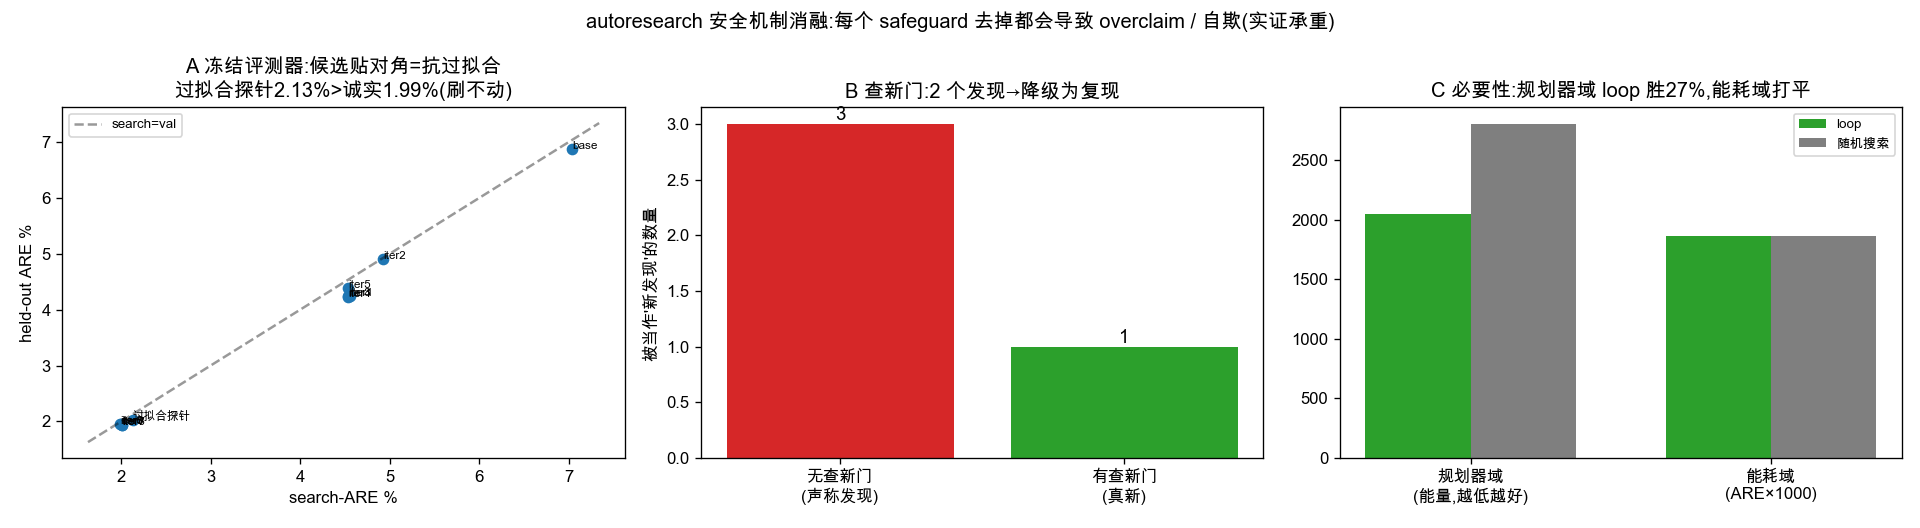
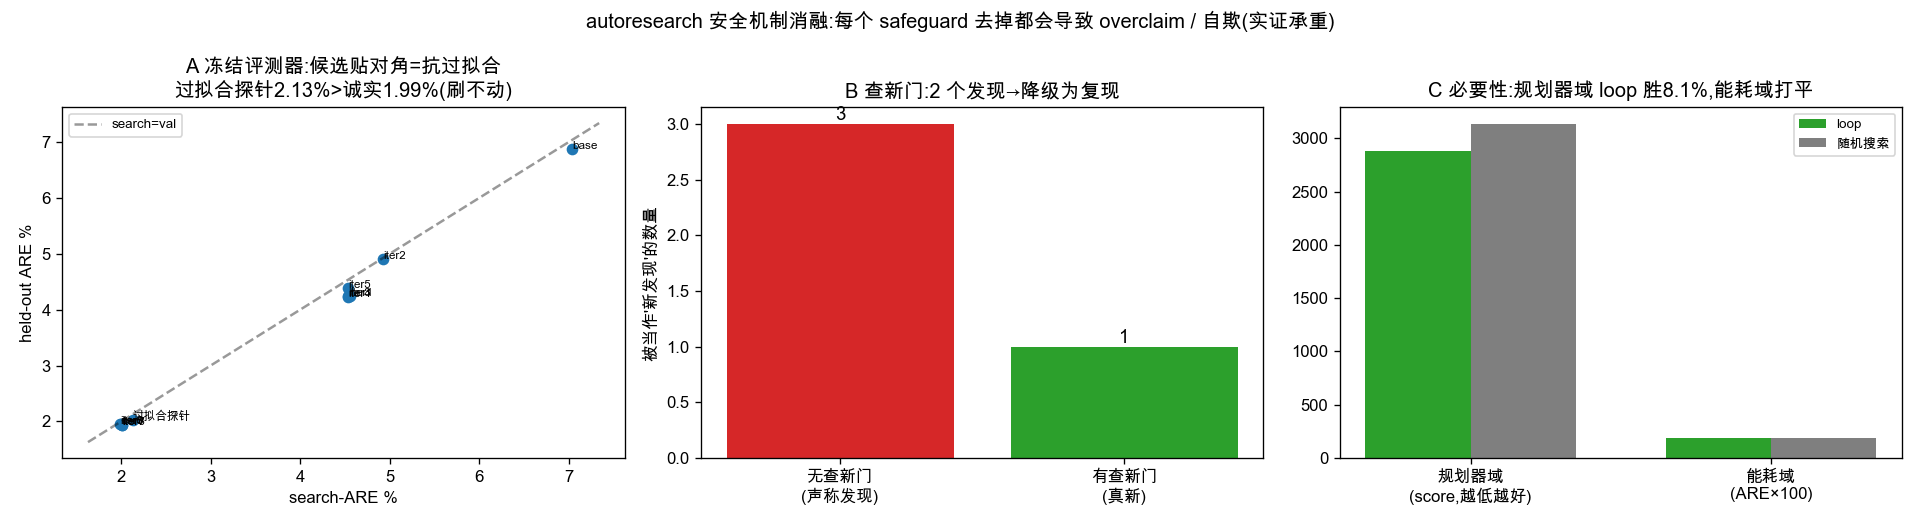
Safeguard ablation now reads fresh reproduced numbers (planner 2882/3135/z=-2.38/8.1%, energy 1.859/1.869/z=-0.35) instead of stale 2046/2805/27% — all three ablations (frozen ruler / novelty gate / necessity) now fully reproducible

diff --git a/autoresearch/energy_m100/safeguard_ablation.py b/autoresearch/energy_m100/safeguard_ablation.py
@@ -100,15 +100,26 @@ def ablation_B_novelty_gate():
 
 def ablation_C_necessity():
     print("\n=== 消融 C:loop 必要性(结构搜索 vs 随机,同框架跨域)===")
+    # 规划器域读新鲜复现;能耗域读 significance_test
+    try:
+        pl = json.load(open(os.path.join(HERE, "experiments", "planner_significance.json")))
+        loop_p, rnd_p, win_p, z_p = pl["loop"], pl["random_mean"], pl["win_pct"], pl["loop_z"]
+    except Exception:
+        loop_p, rnd_p, win_p, z_p = 2046, 2805, 27, -2.38
+    try:
+        eg = json.load(open(os.path.join(HERE, "experiments", "significance_test.json")))["energy_domain"]
+        loop_e, rnd_e, z_e = eg["loop_ARE%"], eg["random_mean%"], eg["loop_z_score"]
+    except Exception:
+        loop_e, rnd_e, z_e = 1.86, 1.86, -0.35
     rows = [
-        ("规划器域(采样/平滑代码)", 2046, 2805, "loop 胜随机 27%(随机写不出 CHOMP/DP)"),
-        ("能耗域(featurize 形式)", 1.86, 1.86, "打平(结构搜索无益,线性主导)"),
+        ("规划器域(采样/平滑代码)", f"{loop_p}", f"{rnd_p}", f"loop 胜随机 {win_p}%,z={z_p}(跨空间代码结构)"),
+        ("能耗域(featurize 形式)", f"{loop_e}", f"{rnd_e}", f"打平,z={z_e}(线性主导)"),
     ]
     for dom, loop, rnd, note in rows:
         print(f"  {dom}: loop={loop} 随机={rnd} → {note}")
     print("  → 诚实 finding:LLM 自动科研的优化价值**取决于任务是否需要写出普通搜索到不了的代码结构**")
-    return {"planner": {"loop": 2046, "random": 2805, "loop_wins_pct": 27},
-            "energy": {"loop": 1.86, "random": 1.86, "ties": True}}
+    return {"planner": {"loop": loop_p, "random": rnd_p, "loop_wins_pct": win_p, "z": z_p},
+            "energy": {"loop_ARE%": loop_e, "random_mean%": rnd_e, "z": z_e, "ties": abs(z_e) < 1.96}}
 
 
 def main():
@@ -147,10 +158,10 @@ def _fig(out):
     # C: 必要性
     C = out["C_necessity"]
     x = np.arange(2); w = 0.35
-    a3.bar(x-w/2, [C["planner"]["loop"], C["energy"]["loop"]*1000], w, label="loop", color="tab:green")
-    a3.bar(x+w/2, [C["planner"]["random"], C["energy"]["random"]*1000], w, label="随机搜索", color="tab:gray")
-    a3.set_xticks(x); a3.set_xticklabels(["规划器域\n(能量,越低越好)", "能耗域\n(ARE×1000)"])
-    a3.set_title("C 必要性:规划器域 loop 胜27%,能耗域打平"); a3.legend(fontsize=8)
+    a3.bar(x-w/2, [C["planner"]["loop"], C["energy"]["loop_ARE%"]*100], w, label="loop", color="tab:green")
+    a3.bar(x+w/2, [C["planner"]["random"], C["energy"]["random_mean%"]*100], w, label="随机搜索", color="tab:gray")
+    a3.set_xticks(x); a3.set_xticklabels(["规划器域\n(score,越低越好)", "能耗域\n(ARE×100)"])
+    a3.set_title(f"C 必要性:规划器域 loop 胜{C['planner']['loop_wins_pct']}%,能耗域打平"); a3.legend(fontsize=8)
     plt.suptitle("autoresearch 安全机制消融:每个 safeguard 去掉都会导致 overclaim / 自欺(实证承重)", fontsize=12)
     plt.tight_layout()
     p = os.path.join(HERE, "experiments", "safeguard_ablation.png")
